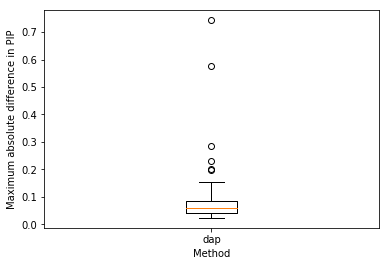
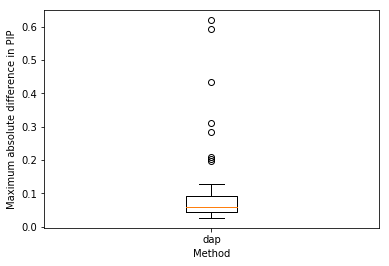
Run two causal variant simulation

diff --git a/docs/pip.html b/docs/pip.html
@@ -1,7 +1,7 @@
 <!DOCTYPE html>
 <html lang="en">
 <head>
-<!-- 2018-01-12 Fri 14:51 -->
+<!-- 2018-01-17 Wed 15:23 -->
 <meta charset="utf-8">
 <meta name="viewport" content="width=device-width, initial-scale=1">
 <title>PIP calibration</title>
@@ -268,9 +268,8 @@ for the JavaScript code in this tag.
 <h2 id="org068fe8b">Introduction</h2>
 <div class="outline-text-2" id="text-org068fe8b">
 <p>
-Here we estimate Spearman correlation between posterior inclusion
-probabilities (PIPs) computed using the Sum of Single Effects (SSE)
-variational approximation against other methods:
+Here we compare posterior inclusion probabilities (PIPs) computed using the
+Sum of Single Effects (SSE) variational approximation against other methods:
 </p>
 
 <ul class="org-ul">
@@ -285,8 +284,33 @@ The simulation generative model is as follows (<code>sse.evaluate._pip_calibrati
 
 <ol class="org-ol">
 <li><p>
-Sample a gene on chromosomes 1-22
+Sample a gene on chromosomes 1-22 which has at least 1,000 SNPs within 100
+kilobases (respecting strand) of the gene start.
 </p>
+
+<div class="org-src-container">
+<pre class="src src-ipython" id="org5de7e0c"><span class="org-variable-name">genotype_files</span> = [<span class="org-string">"/project/compbio/geuvadis/genotypes/GEUVADIS.chr{}.PH1PH2_465.IMPFRQFILT_BIALLELIC_PH.annotv2.genotypes.vcf.gz"</span>.<span class="org-builtin">format</span>(i) <span class="org-keyword">for</span> i <span class="org-keyword">in</span> <span class="org-builtin">range</span>(1, 23)]
+</pre>
+</div>
+
+<div class="org-src-container">
+<pre class="src src-ipython"><span class="org-keyword">def</span> <span class="org-function-name">filter_genes</span>(row, genotype_files, window, min_num_snps=1000):
+  <span class="org-variable-name">window</span> = <span class="org-builtin">int</span>(window)
+  <span class="org-variable-name">chrom</span> = <span class="org-builtin">int</span>(row[<span class="org-string">'chr'</span>][2:])
+  <span class="org-keyword">if</span> row[<span class="org-string">'strand'</span>] == <span class="org-string">'+'</span>:
+    <span class="org-variable-name">start</span> = row[<span class="org-string">'start'</span>] - window
+    <span class="org-variable-name">end</span> = row[<span class="org-string">'start'</span>]
+  <span class="org-keyword">else</span>:
+    <span class="org-variable-name">start</span> = row[<span class="org-string">'start'</span>]
+    <span class="org-variable-name">end</span> = row[<span class="org-string">'start'</span>] + window
+  <span class="org-variable-name">count</span> = 0
+  <span class="org-keyword">for</span> record <span class="org-keyword">in</span> tabix.<span class="org-builtin">open</span>(genotype_files[chrom - 1]).query(<span class="org-builtin">str</span>(chrom), start, end):
+    <span class="org-variable-name">count</span> += 1
+    <span class="org-keyword">if</span> count &gt; min_num_snps:
+      <span class="org-keyword">return</span> <span class="org-constant">True</span>
+  <span class="org-keyword">return</span> <span class="org-constant">False</span>
+</pre>
+</div>
 
 <div class="org-src-container">
 <pre class="src src-ipython" id="org3f2d37e"><span class="org-variable-name">genes</span> = (pd.read_table(<span class="org-string">'/home/aksarkar/projects/singlecell-qtl/data/scqtl-genes.txt.gz'</span>)
@@ -295,20 +319,27 @@ Sample a gene on chromosomes 1-22
          .query(<span class="org-string">'chr != "hsX"'</span>)
          .query(<span class="org-string">'chr != "hsY"'</span>)
          .query(<span class="org-string">'chr != "hsMT"'</span>))
+<span class="org-variable-name">genes</span> = genes[genes.<span class="org-builtin">apply</span>(filter_genes, genotype_files=genotype_files, window=<span class="org-builtin">int</span>(1e5), axis=1)]
 </pre>
-</div></li>
+</div>
 
-<li><p>
-Extract genotypes of GEUVADIS individuals \(X\) from 100 kilobases
-upstream (respecting strand) of the gene start
-(<code>sse.evaluate.read_vcf</code>).
+<p>
+Write out the filtered set of genes so we don't have to do this
+long-running query more than once:
 </p>
 
 <div class="org-src-container">
-<pre class="src src-ipython" id="org5de7e0c"><span class="org-variable-name">genotype_files</span> = [<span class="org-string">"/project/compbio/geuvadis/genotypes/GEUVADIS.chr{}.PH1PH2_465.IMPFRQFILT_BIALLELIC_PH.annotv2.genotypes.vcf.gz"</span>.<span class="org-builtin">format</span>(i) <span class="org-keyword">for</span> i <span class="org-keyword">in</span> <span class="org-builtin">range</span>(1, 23)]
+<pre class="src src-ipython" id="org1df61b1">genes.to_csv(<span class="org-string">'/home/aksarkar/projects/sse/data/genes.txt.gz'</span>, sep=<span class="org-string">'\t'</span>, compression=<span class="org-string">'gzip'</span>)
+</pre>
+</div>
+
+<div class="org-src-container">
+<pre class="src src-ipython" id="orgde74c09"><span class="org-variable-name">genes</span> = pd.read_table(<span class="org-string">'/home/aksarkar/projects/sse/data/genes.txt.gz'</span>, index_col=0)
 </pre>
 </div></li>
 
+<li>Extract genotypes of GEUVADIS individuals \(X\) from 100 kilobases
+upstream (respecting strand) of the gene start (<code>sse.evaluate.read_vcf</code>).</li>
 <li value="3">Estimate MAF \(f_j\) from \(X\) (<code>sse.simulation.Simulation.estimate_maf</code>)</li>
 <li>Fix proportion of variance explained \(h^2 = 0.15\) (mean
 <i>cis</i>-heritability of gene expression across all genes; <a href="https://www.nature.com/articles/ng.3506">Gusev et al 2016</a>,
@@ -337,10 +368,6 @@ upstream (respecting strand) of the gene start
 </div>
 
 <p>
-7e9f5cbf-4e54-49b7-bc05-4ed58a32a49a
-</p>
-
-<p>
 Tabulate the actual number of variants used in the simulation:
 </p>
 
@@ -351,14 +378,14 @@ Tabulate the actual number of variants used in the simulation:
 
 <pre class="example">
 count     100.000000
-  mean     1308.960000
-  std       290.199023
-  min         9.000000
-  25%      1213.250000
-  50%      1319.500000
-  75%      1469.000000
-  max      1852.000000
-  dtype: float64
+mean     1381.850000
+std       216.044672
+min      1014.000000
+25%      1230.750000
+50%      1376.500000
+75%      1497.000000
+max      2320.000000
+dtype: float64
 </pre>
 
 <div class="org-src-container">
@@ -386,6 +413,10 @@ plt.gcf()
 <div id="outline-container-orgdcb5f1c" class="outline-2">
 <h2 id="orgdcb5f1c">Two causal variants</h2>
 <div class="outline-text-2" id="text-orgdcb5f1c">
+<p>
+This takes ~4 hours to run.
+</p>
+
 <div class="org-src-container">
 <pre class="src src-ipython"><span class="org-variable-name">two_causal</span> = sse.evaluate.pip_calibration(
   genes=genes,
@@ -395,6 +426,25 @@ plt.gcf()
   num_causal=2,
   num_effects=10,
   seed=0)
+two_causal.to_csv(<span class="org-string">'/home/aksarkar/projects/sse/data/two-causal-max-error.txt.gz'</span>, sep=<span class="org-string">'\t'</span>, compression=<span class="org-string">'gzip'</span>)
+</pre>
+</div>
+
+<div class="org-src-container">
+<pre class="src src-emacs-lisp">(org-tangle-buffer)
+</pre>
+</div>
+
+<div class="org-src-container">
+<pre class="src src-sh">sbatch --partition=<span class="org-string">"broadwl"</span> --mem=4G --time=200 --job-name=<span class="org-string">"sse"</span>
+<span class="org-comment-delimiter">#</span><span class="org-comment">!/bin/bash</span>
+<span class="org-builtin">source</span> activate sse
+python pip.py
+</pre>
+</div>
+
+<div class="org-src-container">
+<pre class="src src-ipython"><span class="org-variable-name">two_causal</span> = pd.read_table(<span class="org-string">'/home/aksarkar/projects/sse/data/two-causal-max-error.txt.gz'</span>, index_col=[0, 1])
 </pre>
 </div>
 
@@ -407,14 +457,14 @@ plt.gcf()
 <pre class="src src-ipython">plt.clf()
 plt.boxplot(two_causal.fillna(0).values, labels=two_causal.columns)
 plt.xlabel(<span class="org-string">'Method'</span>)
-plt.ylabel(<span class="org-string">'Spearman correlation with SSE PIP'</span>)
+plt.ylabel(<span class="org-string">'Maximum absolute difference in PIP'</span>)
 plt.gcf()
 </pre>
 </div>
 
 
 <div class="figure">
-<p><img src="two-causal-variants-spearman.png" alt="two-causal-variants-spearman.png">
+<p><img src="two-causal-variants-max-error.png" alt="two-causal-variants-max-error.png">
 </p>
 </div>
 </div>
@@ -422,7 +472,7 @@ plt.gcf()
 </div>
 <div id="postamble" class="status">
 <p class="author">Author: Abhishek Sarkar</p>
-<p class="date">Created: 2018-01-12 Fri 14:51</p>
+<p class="date">Created: 2018-01-17 Wed 15:23</p>
 <p class="validation"><a href="http://validator.w3.org/check?uri=referer">Validate</a></p>
 </div>
 </body>
